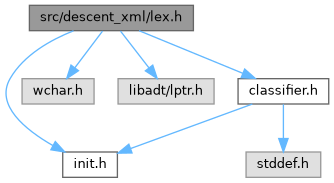
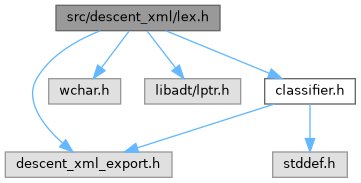
Deploying to gh-pages from @ TheMadman/descent_xml@8a4c7a813ab8f0c3eedbe9e4152e1a8b1b3c8cb3 🚀

diff --git a/lex_8h.html b/lex_8h.html
@@ -80,7 +80,7 @@ $(function() {
   <div class="headertitle"><div class="title">lex.h File Reference</div></div>
 </div><!--header-->
 <div class="contents">
-<div class="textblock"><code>#include &quot;init.h&quot;</code><br />
+<div class="textblock"><code>#include &quot;descent_xml_export.h&quot;</code><br />
 <code>#include &lt;wchar.h&gt;</code><br />
 <code>#include &lt;libadt/lptr.h&gt;</code><br />
 <code>#include &quot;<a class="el" href="classifier_8h_source.html">classifier.h</a>&quot;</code><br />
@@ -89,18 +89,18 @@ Include dependency graph for lex.h:</div>
 <div class="dyncontent">
 <div class="center"><img src="lex_8h__incl.png" border="0" usemap="#asrc_2descent__xml_2lex_8h" alt=""/></div>
 <map name="asrc_2descent__xml_2lex_8h" id="asrc_2descent__xml_2lex_8h">
-<area shape="rect" title=" " alt="" coords="29,5,193,31"/>
-<area shape="rect" href="init_8h_source.html" title=" " alt="" coords="63,152,117,177"/>
-<area shape="poly" title=" " alt="" coords="75,33,40,51,24,64,13,80,9,98,18,115,34,130,54,143,51,148,31,134,13,118,4,98,8,78,21,61,37,47,72,28"/>
-<area shape="rect" title=" " alt="" coords="22,79,94,104"/>
-<area shape="poly" title=" " alt="" coords="105,33,77,69,73,66,100,29"/>
-<area shape="rect" title=" " alt="" coords="118,79,214,104"/>
-<area shape="poly" title=" " alt="" coords="123,29,151,66,147,69,118,33"/>
-<area shape="rect" href="classifier_8h.html" title=" " alt="" coords="238,79,329,104"/>
-<area shape="poly" title=" " alt="" coords="140,28,244,71,242,76,138,33"/>
-<area shape="poly" title=" " alt="" coords="253,107,131,151,130,146,251,102"/>
-<area shape="rect" title=" " alt="" coords="246,152,321,177"/>
-<area shape="poly" title=" " alt="" coords="286,104,286,138,281,138,281,104"/>
+<area shape="rect" title=" " alt="" coords="56,5,220,31"/>
+<area shape="rect" title=" " alt="" coords="5,152,172,177"/>
+<area shape="poly" title=" " alt="" coords="101,33,66,51,51,64,39,80,35,96,40,112,64,141,60,145,35,114,30,96,34,78,47,61,63,47,99,28"/>
+<area shape="rect" title=" " alt="" coords="49,79,121,104"/>
+<area shape="poly" title=" " alt="" coords="131,33,104,69,99,66,127,29"/>
+<area shape="rect" title=" " alt="" coords="145,79,241,104"/>
+<area shape="poly" title=" " alt="" coords="149,29,178,66,173,69,145,33"/>
+<area shape="rect" href="classifier_8h.html" title=" " alt="" coords="265,79,355,104"/>
+<area shape="poly" title=" " alt="" coords="167,28,270,71,268,76,165,33"/>
+<area shape="poly" title=" " alt="" coords="275,107,138,150,136,145,274,101"/>
+<area shape="rect" title=" " alt="" coords="273,152,347,177"/>
+<area shape="poly" title=" " alt="" coords="313,104,313,138,307,138,307,104"/>
 </map>
 </div>
 </div><div class="textblock"><div class="dynheader">

diff --git a/parse_8h.html b/parse_8h.html
@@ -82,7 +82,7 @@ $(function() {
 <div class="textblock"><code>#include &lt;stdlib.h&gt;</code><br />
 <code>#include &lt;string.h&gt;</code><br />
 <code>#include &lt;stdbool.h&gt;</code><br />
-<code>#include &quot;init.h&quot;</code><br />
+<code>#include &quot;descent_xml_export.h&quot;</code><br />
 <code>#include &quot;<a class="el" href="lex_8h_source.html">lex.h</a>&quot;</code><br />
 <code>#include &lt;libadt/lptr.h&gt;</code><br />
 <code>#include &lt;libadt/vector.h&gt;</code><br />
@@ -98,12 +98,12 @@ Include dependency graph for parse.h:</div>
 <area shape="poly" title=" " alt="" coords="287,33,178,76,176,71,285,28"/>
 <area shape="rect" title=" " alt="" coords="195,79,278,104"/>
 <area shape="poly" title=" " alt="" coords="304,33,261,71,258,68,301,29"/>
-<area shape="rect" href="init_8h_source.html" title=" " alt="" coords="339,225,393,251"/>
+<area shape="rect" title=" " alt="" coords="283,225,449,251"/>
 <area shape="poly" title=" " alt="" coords="321,30,363,211,358,212,315,32"/>
 <area shape="rect" href="lex_8h.html" title=" " alt="" coords="383,79,437,104"/>
 <area shape="poly" title=" " alt="" coords="332,29,385,68,382,72,329,33"/>
 <area shape="rect" title=" " alt="" coords="614,152,710,177"/>
-<area shape="poly" title=" " alt="" coords="343,28,450,76,502,102,616,145,614,150,500,106,448,81,341,33"/>
+<area shape="poly" title=" " alt="" coords="343,28,451,76,502,102,616,145,614,150,500,106,449,81,341,33"/>
 <area shape="rect" title=" " alt="" coords="513,79,627,104"/>
 <area shape="poly" title=" " alt="" coords="357,28,517,72,515,78,356,33"/>
 <area shape="poly" title=" " alt="" coords="409,105,394,153,376,213,371,211,389,151,404,103"/>
@@ -112,7 +112,7 @@ Include dependency graph for parse.h:</div>
 <area shape="poly" title=" " alt="" coords="438,98,609,146,608,151,437,103"/>
 <area shape="rect" href="classifier_8h.html" title=" " alt="" coords="499,152,590,177"/>
 <area shape="poly" title=" " alt="" coords="433,102,512,143,509,148,430,106"/>
-<area shape="poly" title=" " alt="" coords="517,180,407,223,405,218,515,175"/>
+<area shape="poly" title=" " alt="" coords="517,180,409,223,407,218,515,175"/>
 <area shape="rect" title=" " alt="" coords="507,225,582,251"/>
 <area shape="poly" title=" " alt="" coords="547,178,547,212,542,212,542,178"/>
 </map>

diff --git a/classifier_8h.html b/classifier_8h.html
@@ -81,18 +81,18 @@ $(function() {
   <div class="headertitle"><div class="title">classifier.h File Reference</div></div>
 </div><!--header-->
 <div class="contents">
-<div class="textblock"><code>#include &quot;init.h&quot;</code><br />
+<div class="textblock"><code>#include &quot;descent_xml_export.h&quot;</code><br />
 <code>#include &lt;stddef.h&gt;</code><br />
 </div><div class="textblock"><div class="dynheader">
 Include dependency graph for classifier.h:</div>
 <div class="dyncontent">
 <div class="center"><img src="classifier_8h__incl.png" border="0" usemap="#asrc_2descent__xml_2classifier_8h" alt=""/></div>
 <map name="asrc_2descent__xml_2classifier_8h" id="asrc_2descent__xml_2classifier_8h">
-<area shape="rect" title=" " alt="" coords="5,5,207,31"/>
-<area shape="rect" href="init_8h_source.html" title=" " alt="" coords="35,79,89,104"/>
-<area shape="poly" title=" " alt="" coords="101,32,79,68,74,66,96,30"/>
-<area shape="rect" title=" " alt="" coords="114,79,189,104"/>
-<area shape="poly" title=" " alt="" coords="116,30,139,66,134,69,111,32"/>
+<area shape="rect" title=" " alt="" coords="60,5,261,31"/>
+<area shape="rect" title=" " alt="" coords="5,79,172,104"/>
+<area shape="poly" title=" " alt="" coords="151,33,112,71,108,67,147,29"/>
+<area shape="rect" title=" " alt="" coords="197,79,271,104"/>
+<area shape="poly" title=" " alt="" coords="175,29,214,67,210,71,171,33"/>
 </map>
 </div>
 </div><div class="textblock"><div class="dynheader">

diff --git a/validate_8h.html b/validate_8h.html
@@ -101,7 +101,7 @@ Include dependency graph for validate.h:</div>
 <area shape="poly" title=" " alt="" coords="322,99,515,148,513,153,320,104"/>
 <area shape="rect" title=" " alt="" coords="163,152,234,177"/>
 <area shape="poly" title=" " alt="" coords="273,106,225,145,222,141,270,102"/>
-<area shape="rect" href="init_8h_source.html" title=" " alt="" coords="158,299,213,324"/>
+<area shape="rect" title=" " alt="" coords="102,299,269,324"/>
 <area shape="poly" title=" " alt="" coords="250,100,225,107,198,117,173,132,153,153,145,169,142,186,146,223,158,257,173,286,168,288,153,259,140,224,137,186,140,168,148,151,169,128,195,112,223,101,249,95"/>
 <area shape="rect" href="lex_8h.html" title=" " alt="" coords="258,152,313,177"/>
 <area shape="poly" title=" " alt="" coords="288,104,288,138,283,138,283,104"/>
@@ -113,7 +113,7 @@ Include dependency graph for validate.h:</div>
 <area shape="poly" title=" " alt="" coords="283,179,270,214,265,212,278,177"/>
 <area shape="rect" href="classifier_8h.html" title=" " alt="" coords="319,225,409,251"/>
 <area shape="poly" title=" " alt="" coords="300,175,343,214,339,218,296,179"/>
-<area shape="poly" title=" " alt="" coords="336,253,226,297,224,292,334,248"/>
+<area shape="poly" title=" " alt="" coords="336,253,228,296,226,291,334,248"/>
 <area shape="rect" title=" " alt="" coords="327,299,401,324"/>
 <area shape="poly" title=" " alt="" coords="367,251,367,285,361,285,361,251"/>
 </map>

diff --git a/parse_8h_source.html b/parse_8h_source.html
@@ -111,7 +111,7 @@ $(document).ready(function() { init_codefold(0); });
 <div class="line"><a id="l00027" name="l00027"></a><span class="lineno">   27</span><span class="preprocessor">#include &lt;string.h&gt;</span></div>
 <div class="line"><a id="l00028" name="l00028"></a><span class="lineno">   28</span><span class="preprocessor">#include &lt;stdbool.h&gt;</span></div>
 <div class="line"><a id="l00029" name="l00029"></a><span class="lineno">   29</span> </div>
-<div class="line"><a id="l00030" name="l00030"></a><span class="lineno">   30</span><span class="preprocessor">#include &quot;init.h&quot;</span></div>
+<div class="line"><a id="l00030" name="l00030"></a><span class="lineno">   30</span><span class="preprocessor">#include &quot;descent_xml_export.h&quot;</span></div>
 <div class="line"><a id="l00031" name="l00031"></a><span class="lineno">   31</span><span class="preprocessor">#include &quot;<a class="code" href="lex_8h.html">lex.h</a>&quot;</span></div>
 <div class="line"><a id="l00032" name="l00032"></a><span class="lineno">   32</span> </div>
 <div class="line"><a id="l00033" name="l00033"></a><span class="lineno">   33</span><span class="preprocessor">#include &lt;libadt/lptr.h&gt;</span></div>

diff --git a/classifier_8h_source.html b/classifier_8h_source.html
@@ -107,7 +107,7 @@ $(document).ready(function() { init_codefold(0); });
 <div class="line"><a id="l00023" name="l00023"></a><span class="lineno">   23</span><span class="keyword">extern</span> <span class="stringliteral">&quot;C&quot;</span> {</div>
 <div class="line"><a id="l00024" name="l00024"></a><span class="lineno">   24</span><span class="preprocessor">#endif</span></div>
 <div class="line"><a id="l00025" name="l00025"></a><span class="lineno">   25</span> </div>
-<div class="line"><a id="l00026" name="l00026"></a><span class="lineno">   26</span><span class="preprocessor">#include &quot;init.h&quot;</span></div>
+<div class="line"><a id="l00026" name="l00026"></a><span class="lineno">   26</span><span class="preprocessor">#include &quot;descent_xml_export.h&quot;</span></div>
 <div class="line"><a id="l00027" name="l00027"></a><span class="lineno">   27</span> </div>
 <div class="line"><a id="l00048" name="l00048"></a><span class="lineno">   48</span><span class="preprocessor">#include &lt;stddef.h&gt;</span></div>
 <div class="line"><a id="l00049" name="l00049"></a><span class="lineno">   49</span> </div>

diff --git a/lex_8h_source.html b/lex_8h_source.html
@@ -107,7 +107,7 @@ $(document).ready(function() { init_codefold(0); });
 <div class="line"><a id="l00023" name="l00023"></a><span class="lineno">   23</span><span class="keyword">extern</span> <span class="stringliteral">&quot;C&quot;</span> {</div>
 <div class="line"><a id="l00024" name="l00024"></a><span class="lineno">   24</span><span class="preprocessor">#endif</span></div>
 <div class="line"><a id="l00025" name="l00025"></a><span class="lineno">   25</span> </div>
-<div class="line"><a id="l00026" name="l00026"></a><span class="lineno">   26</span><span class="preprocessor">#include &quot;init.h&quot;</span></div>
+<div class="line"><a id="l00026" name="l00026"></a><span class="lineno">   26</span><span class="preprocessor">#include &quot;descent_xml_export.h&quot;</span></div>
 <div class="line"><a id="l00027" name="l00027"></a><span class="lineno">   27</span> </div>
 <div class="line"><a id="l00028" name="l00028"></a><span class="lineno">   28</span><span class="preprocessor">#include &lt;wchar.h&gt;</span></div>
 <div class="line"><a id="l00029" name="l00029"></a><span class="lineno">   29</span> </div>
